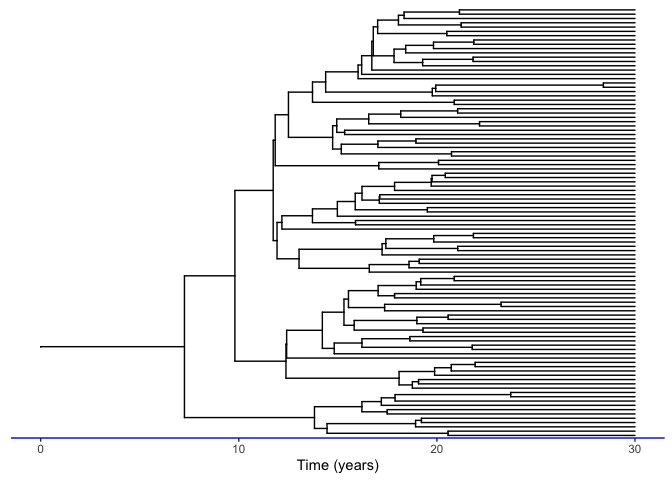
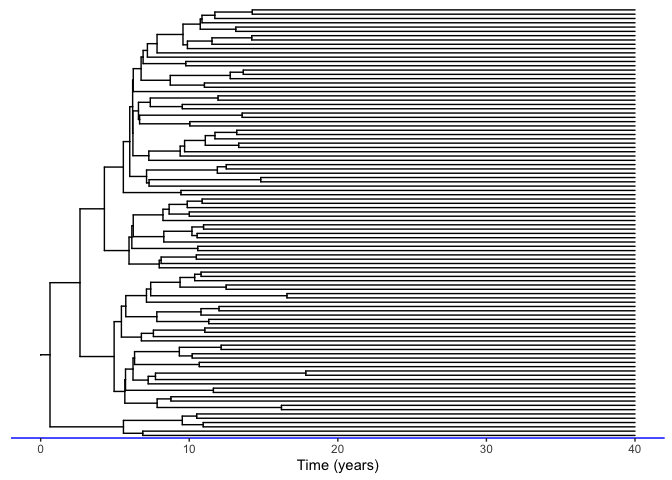
update readme

diff --git a/README.md b/README.md
@@ -65,7 +65,7 @@ library(ggtree, quietly = T)
 library(ggplot2, quietly = T)
 
 # Generate a sampled tree with 100 tips from a 20 year birth-death process with birth rate a=1 and death rate b=0.5
-tree <- simUltra(a = 1, b = 0.5, cloneAge = 30, n = 100)
+tree <- simUltra(a = 1, b = 0.5, cloneAge = 40, n = 100)
 ```
 
 Now that we have simulated the tree, let’s plot it:
@@ -88,12 +88,12 @@ We can use this tree as input to our methods for growth rate estimation:
 # Estimate the growth rate r=a-b=0.5 using maximum likelihood
 maxLike.df <- maxLikelihood(tree)
 print(paste0("Max. likelihood estimate = ", round(maxLike.df$estimate, 3)))
-#> [1] "Max. likelihood estimate = 0.521"
+#> [1] "Max. likelihood estimate = 0.568"
 
 # Estimate the growth rate r=a-b=0.5 using internal lengths
 intLengths.df <- internalLengths(tree)
 print(paste0("Internal lengths estimate = ", round(intLengths.df$estimate, 3)))
-#> [1] "Internal lengths estimate = 0.509"
+#> [1] "Internal lengths estimate = 0.526"
 ```
 
 ### Estimate growth rate of many trees
@@ -152,10 +152,12 @@ print(rmse)
 ```
 
 As expected, maximum likelihood performs the best. Note that this may
-change if we regenerate the data. For more details, see our vignettes on
-[simulating trees to validate our estimates](cloneRate-simulate.html)
-and [applying our methods to blood
-data](vignettes/cloneRate-dataAnalysis.html)
+change if we regenerate the data. For more details, see our vignettes:
+
+``` r
+vignettes("cloneRate-dataAnalysis")
+vignettes("cloneRate-simulate")
+```
 
 ## References
 
